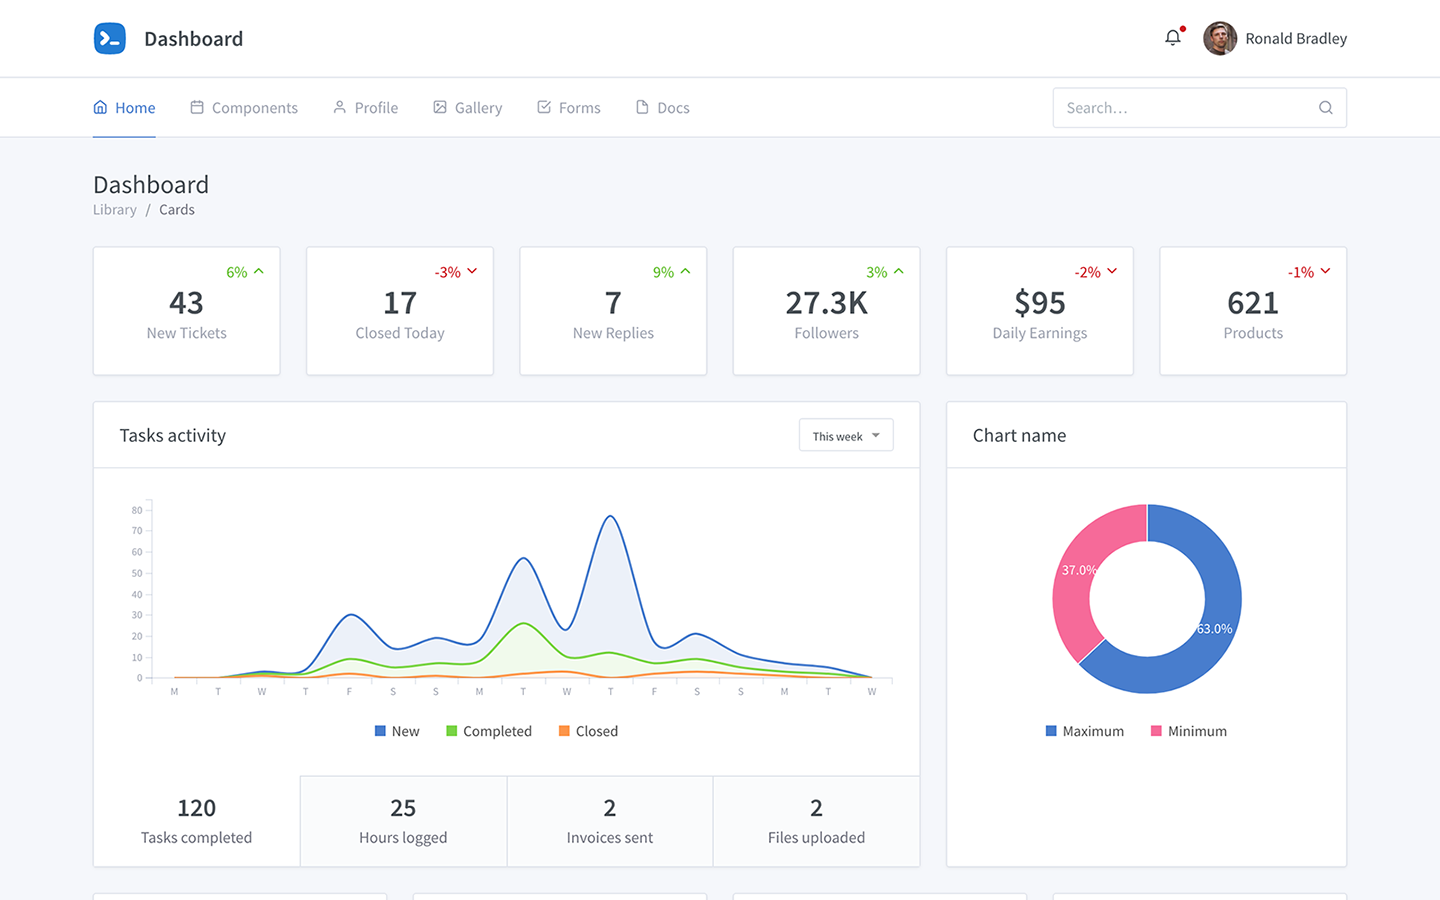
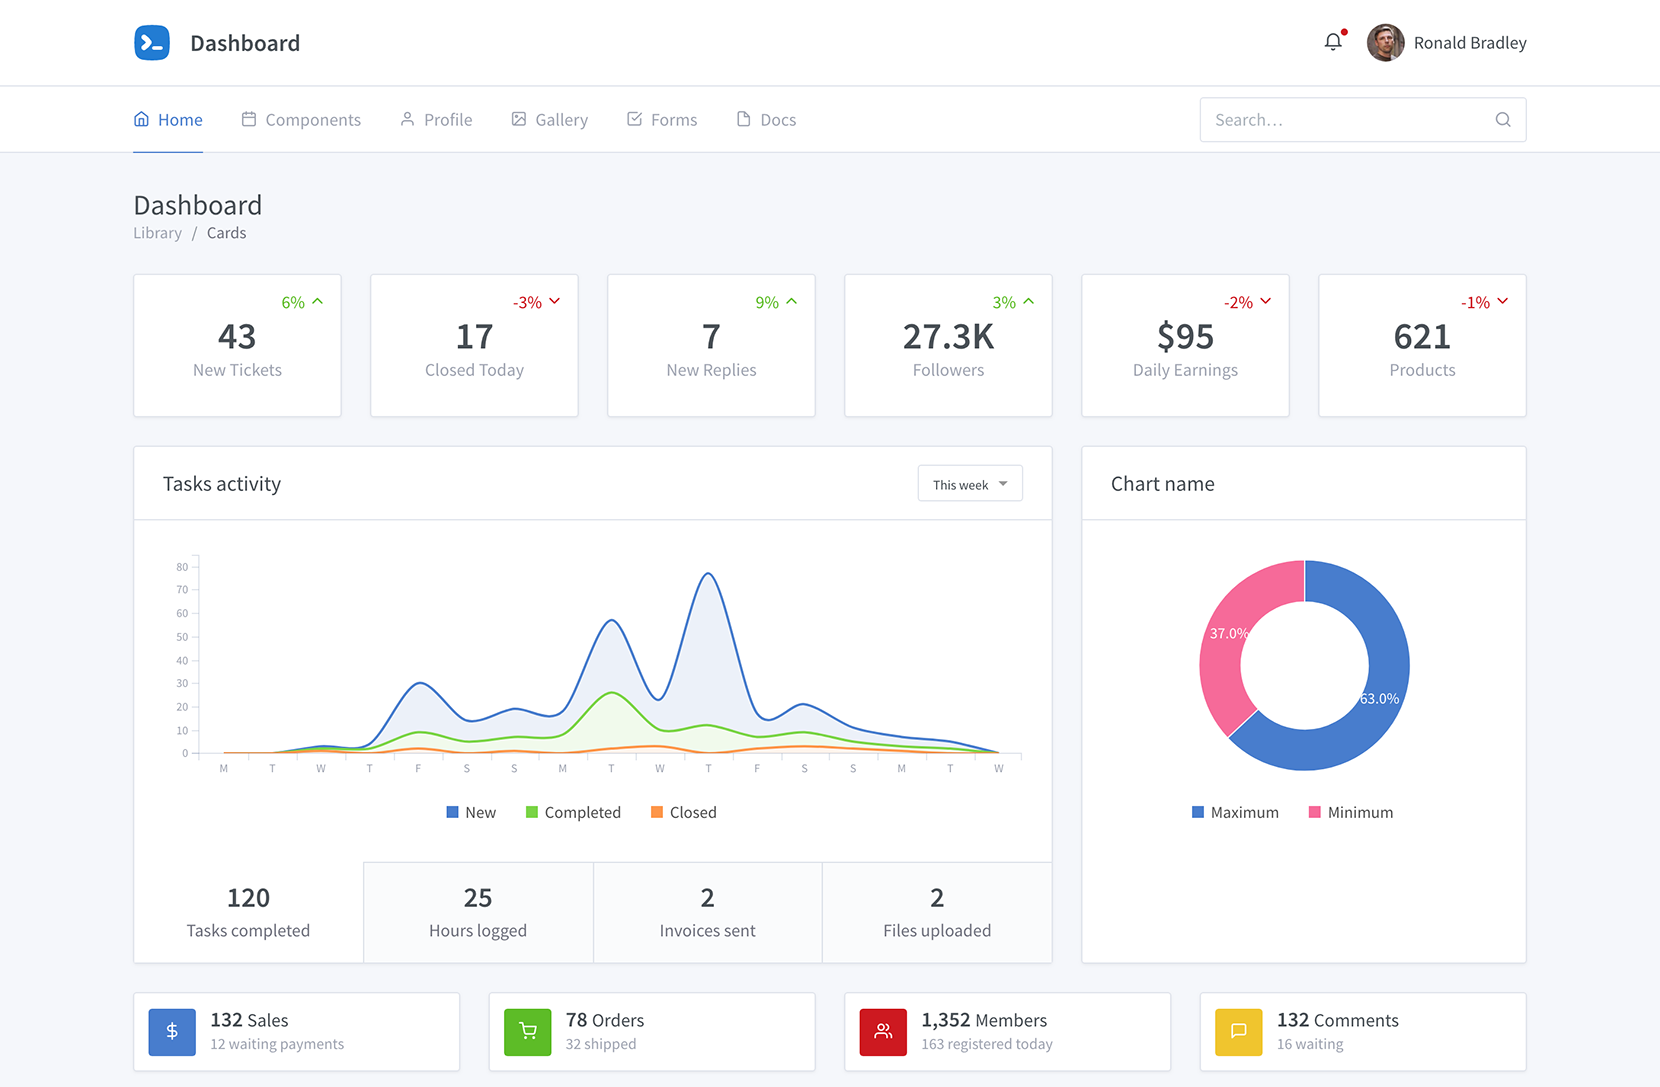
svg image preview

diff --git a/index.html b/index.html
@@ -22,7 +22,7 @@ hide-header: true
 			<svg width="966" height="565" viewbox="0 0 966 565" version="1.1"
 			     xmlns="http://www.w3.org/2000/svg" xmlns:xlink= "http://www.w3.org/1999/xlink" preserveAspectRatio="xMidYMid meet">
 				<image xlink:href="assets/images/macbook.png" x="0" y="0" height="565" width="966"/>
-				<image xlink:href="assets/images/dashboard.png" x="117" y="28" height="458" width="730"/>
+				<image xlink:href="assets/images/dashboard.png" x="117" y="26" height="478" width="730"/>
 			</svg>
 		</div>
 	</div>
